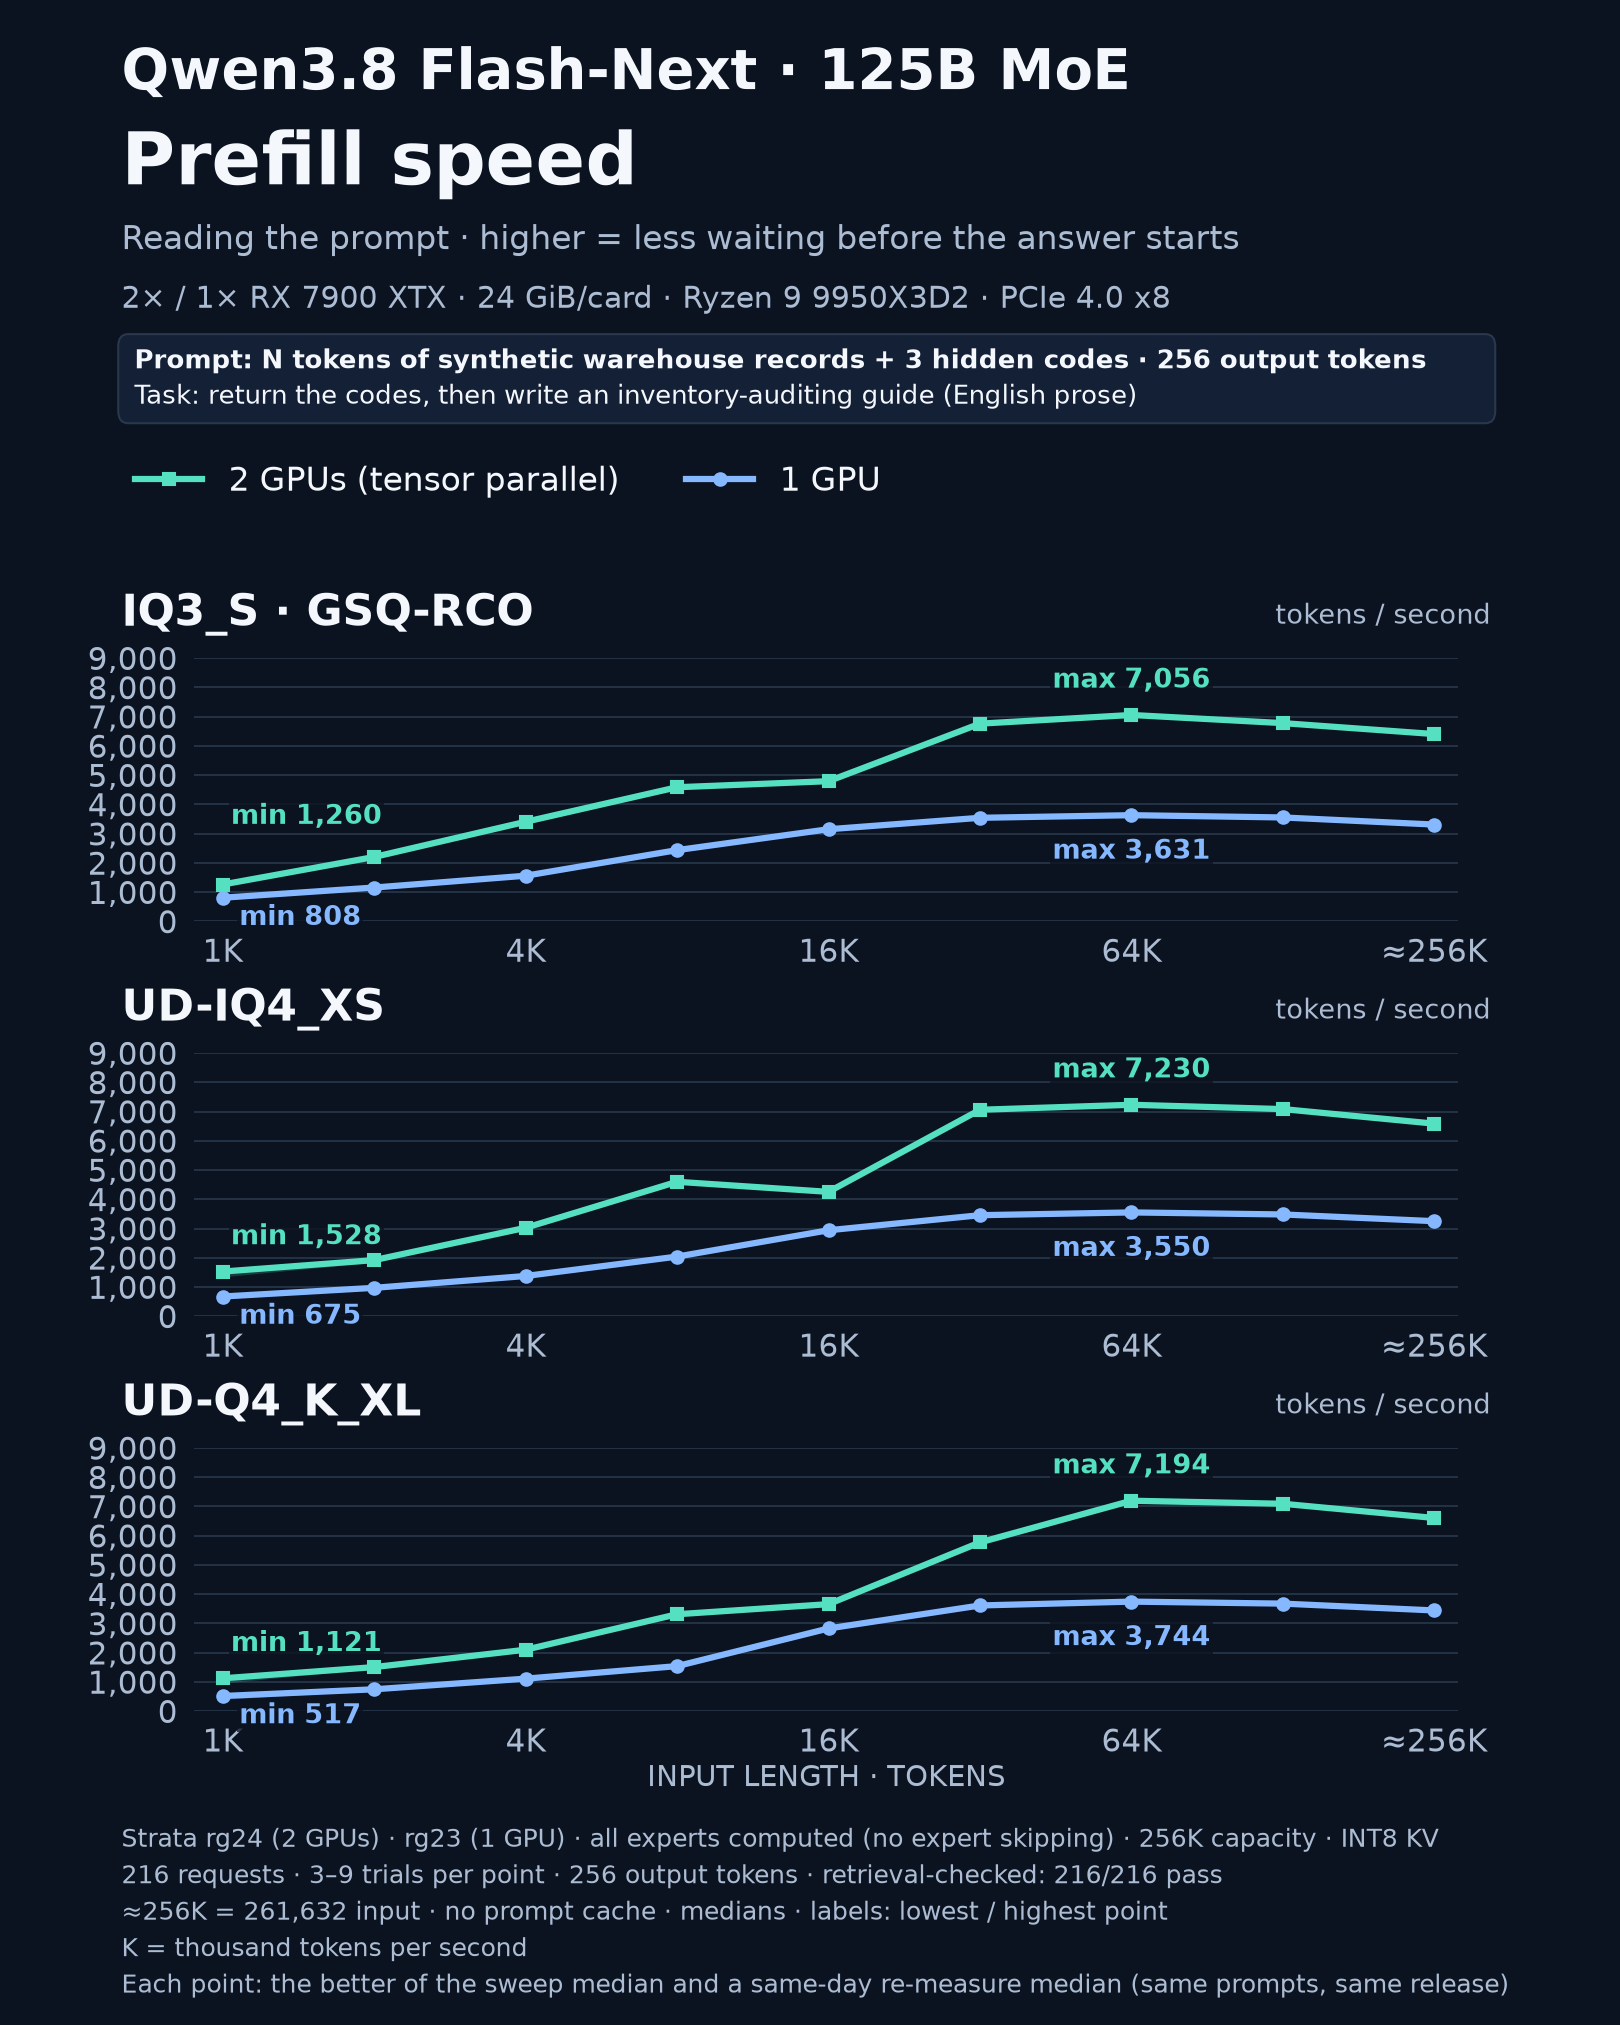
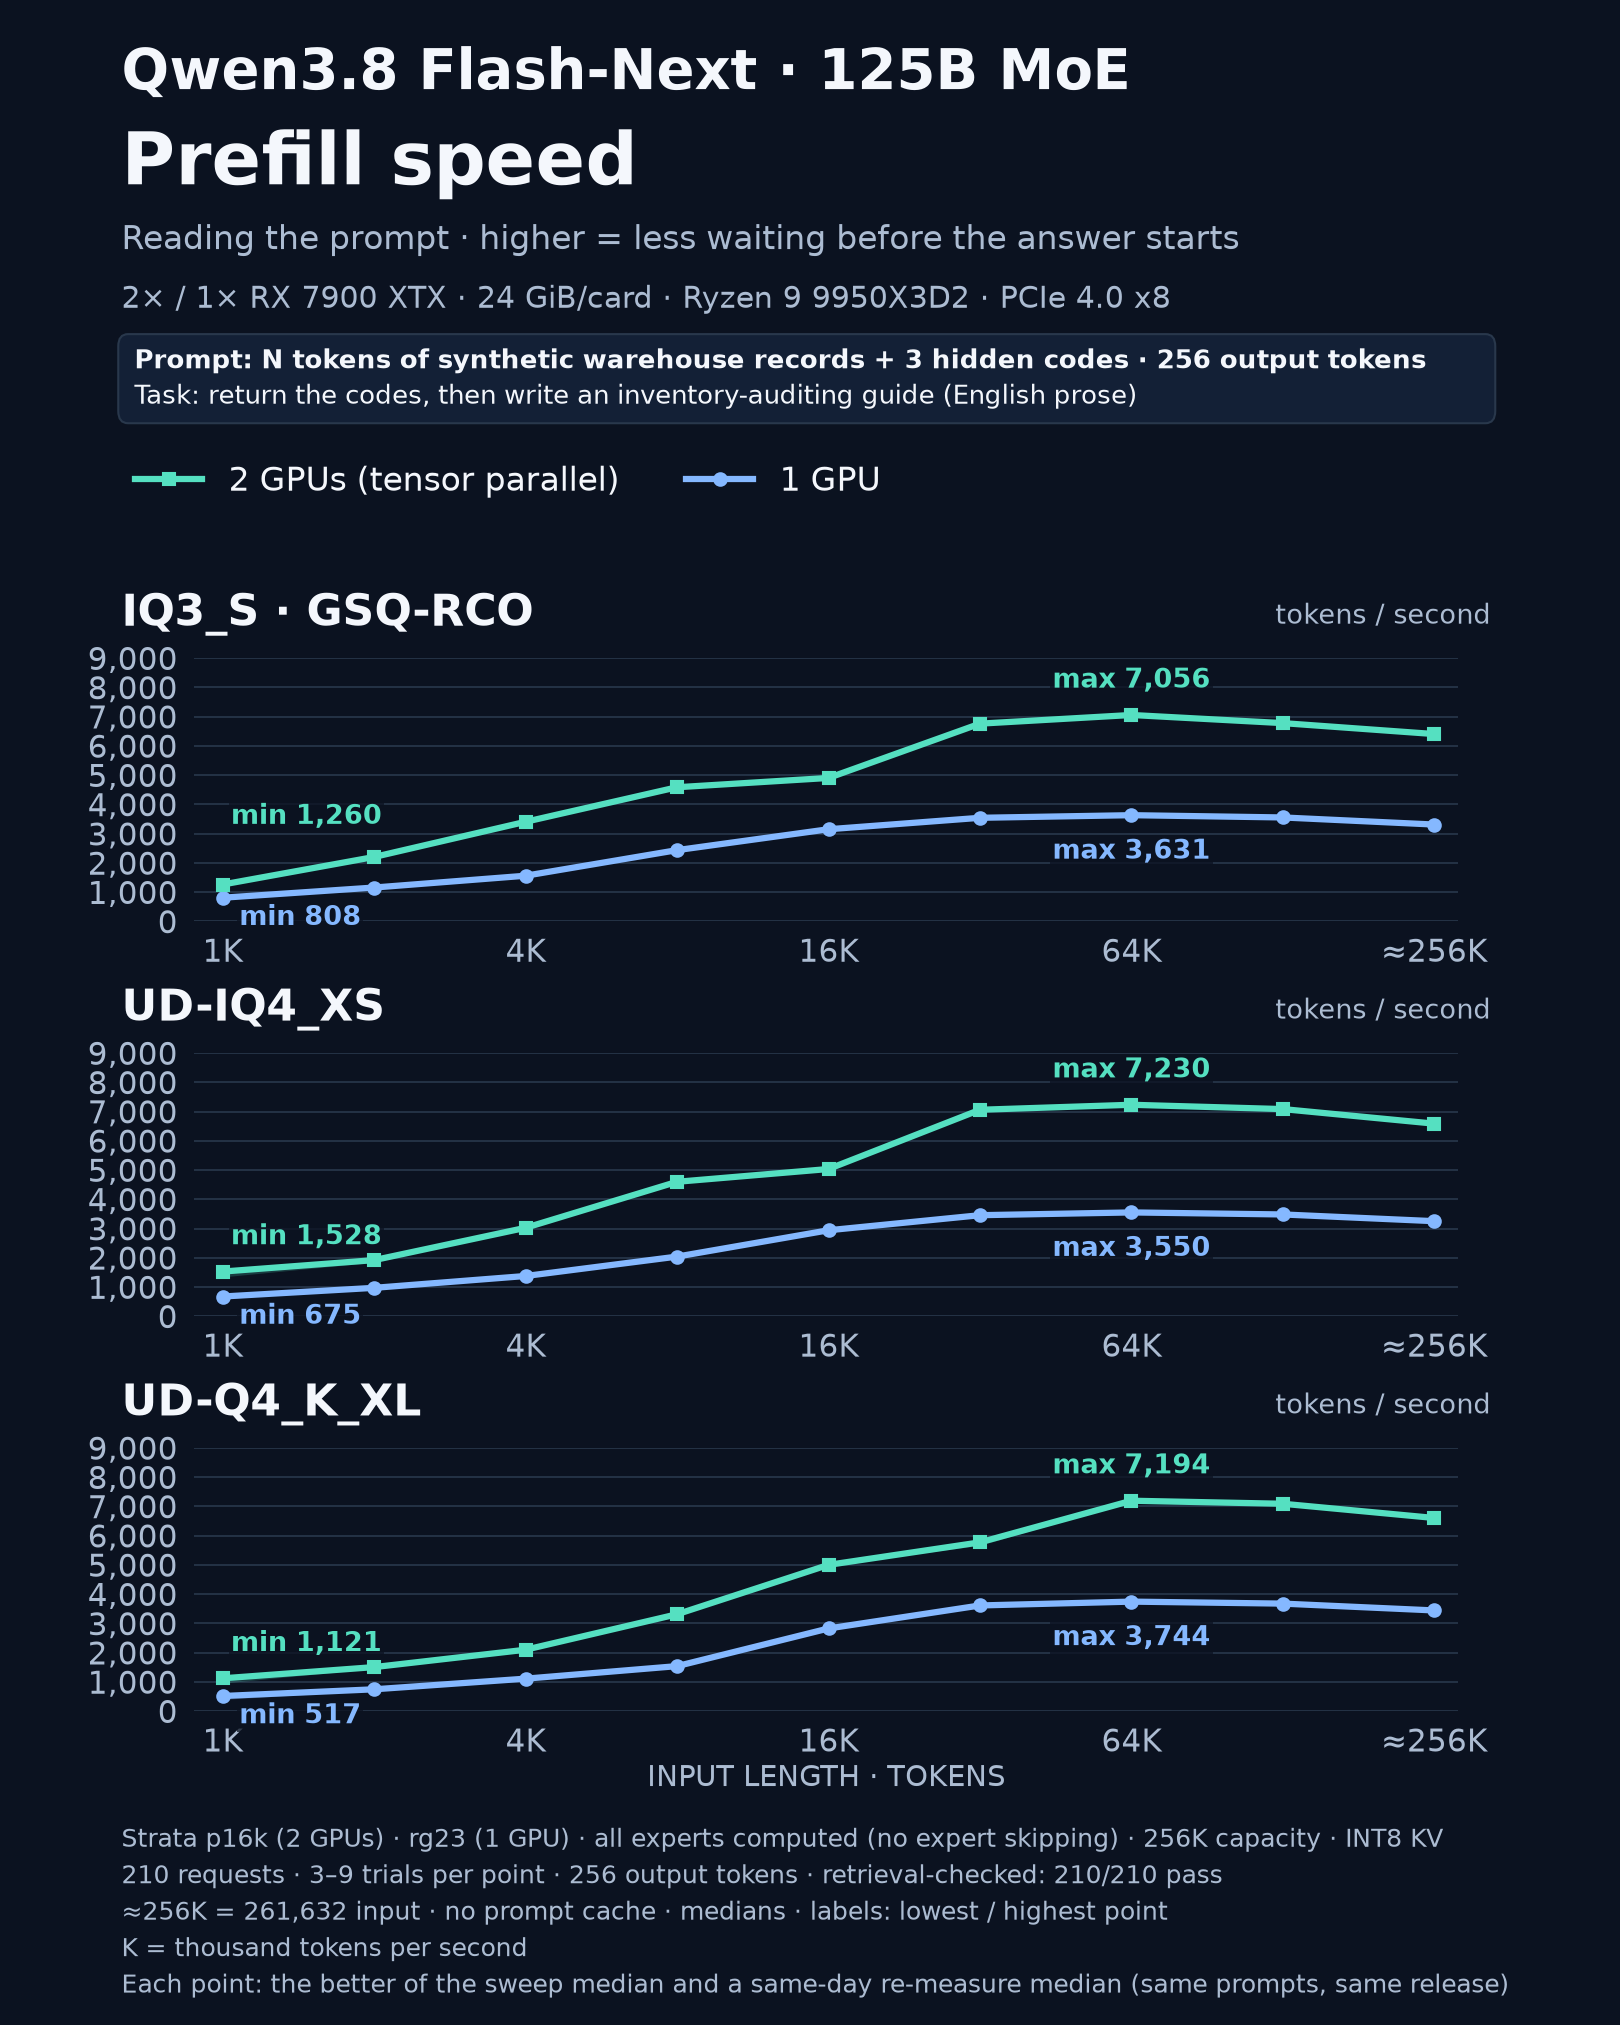
README + charts: production 2026-11-02 evening (p16k, main da76c449): TP prefill up to 18K (IQ3_S / UD-IQ4_XS) and 10K-28K (UD-Q4_K_XL) in one chunk with the TP-only refill head; 16K 2-GPU prefill IQ3_S 4,904, UD-IQ4_XS 5,034, UD-Q4_K_XL 5,000 tok/s (1.56x / 1.71x / 1.77x one GPU); charts from the 1

diff --git a/README.md b/README.md
@@ -28,8 +28,9 @@
 ## RDNA3 / RX 7900 XTX fork
 
 Measured on one or two **RX 7900 XTX** (24 GB each, PCIe 4.0 x8) with a Ryzen 9 9950X3D2 and 128 GB of RAM, release
-`claude-20261102-rg24` on two GPUs and `claude-20261101-rg23` on one (the releases in production on 2026-11-02), with
-every expert computed (no expert skipping). Lines are the median of 3 trials (9 for UD-Q4_K_XL on 2 GPUs; the faint band
+`claude-20261102-p16k` on two GPUs (16K prompts measured on it; the other lengths take the same path as on
+`claude-20261102-rg24`, where they were measured) and `claude-20261101-rg23` on one (production from 2026-11-02), with
+every expert computed (no expert skipping). Lines are the median of 3 trials (9 for UD-Q4_K_XL on 2 GPUs except 16K; the faint band
 is the trial range); every request was checked for exact input length, 256 output tokens and correct retrieval, with no
 prompt cache.
 
@@ -53,7 +54,9 @@ of text.
 
 Fastest measured decode: IQ3_S on 2 GPUs writing code, 189 tok/s (4K context). On 2 GPUs all three quants decode
 tensor parallel (UD-Q4_K_XL since 2026-11-02, before that a pipelined layer split); prompts take one of three paths by
-length (below). UD-IQ4_XS and IQ3_S 2-GPU code cells are rg23 sweeps (rg24 changes only prompts of 3K-12K).
+length (below). UD-IQ4_XS and IQ3_S 2-GPU code cells other than 16K are rg23 sweeps (rg24 / p16k change only prompt reads,
+from 3K tokens). At 16K on 2 GPUs prefill is IQ3_S 4,904, UD-IQ4_XS 5,034 and UD-Q4_K_XL 5,000 tok/s (English; 1.56x /
+1.71x / 1.77x one GPU, was 1.52x / 1.45x / 1.29x before p16k).
 
 ### How the two cards are used
 
@@ -61,7 +64,7 @@ length (below). UD-IQ4_XS and IQ3_S 2-GPU code cells are rg23 sweeps (rg24 chang
 |---|---|---|
 | Decode | tensor parallel (`--tensor-parallel 2`) | tensor parallel (since 2026-11-02; before: layer split + `--pipeline-windows 2`) |
 | Short prompts | one chunk through the layer split, the idle card computing part of the other's experts | same |
-| Mid-length prompts | tensor-parallel prefill, 3,072 (IQ3_S) / 5,120 (UD-IQ4_XS) to 12,288 tokens | one chunk (tensor-parallel prefill is link-bound on Q4), then data parallel from 18,000 tokens |
+| Mid-length prompts | tensor-parallel prefill in one chunk, 3,072 (IQ3_S) / 5,120 (UD-IQ4_XS) to 18,432 tokens, with the refill head | one chunk below 10,240 tokens, then tensor-parallel prefill in one chunk to 28,672 tokens with the refill head |
 | Long prompts | data parallel | data parallel |
 
 **Tensor-parallel decode.** Every layer runs on both cards: attention is split by head, the routed experts are split by
@@ -101,12 +104,20 @@ split by head, attention by query (keys and values exchanged), experts by id. Wi
 `STRATA_TP_PREFILL_MAX=12288` and `STRATA_TP_PREFILL_MIN` 3072 (IQ3_S) / 5120 (UD-IQ4_XS), prefill against the previous
 release: IQ3_S +18.5 % at 4K and +41.6 % at 8K, UD-IQ4_XS +31.8 % at 8K and about +15 % at 12K, decode unchanged.
 
-It stops at 12K because a prompt chunk borrows expert slots from the decode cache. Data parallel gives card 0's slots
-back while card 1 is still reading; tensor parallel keeps both cards busy to the last layer, so both caches refill under
-the first decode windows. Read as one 16K chunk, the decode after it hit its cache about 96 % of the time instead of
-98 % and its windows were 2.7-5.4 % slower; with 8,448-token chunks the prefill gain at 16K was gone. Above 12K
-data parallel stays. On UD-Q4_K_XL tensor-parallel prefill is link-bound (at 16K each card streams ~29 GB of experts
-plus ~10 GB of exchanges through one PCIe 4.0 x8 link) and loses at every length, so it is not used there.
+rg24 stopped it at 12K because a prompt chunk borrows expert slots from the decode cache. Data parallel gives card 0's
+slots back while card 1 is still reading; tensor parallel keeps both cards busy to the last layer, so both caches refill
+under the first decode windows: read as one 16K chunk, the decode after it hit its cache about 96 % of the time instead
+of 98 % and its windows were 2.7-5.4 % slower. **The refill head (release `claude-20261102-p16k`):** after a
+tensor-parallel read of at least 8,449 tokens each card waits, before the first token, for every borrowed slot but its
+coldest 900 (IQ3_S) / 800 (UD-IQ4_XS) / 1,400 (UD-Q4_K_XL) (`STRATA_REFILL_HEAD_TP_KEEP`, `STRATA_REFILL_HEAD_TP_MIN`),
+about 0.2-0.35 s, so the decode starts with no more experts missing than after a data-parallel read. The refill goes
+hottest first (an eighth of the borrowed slots holds ~60 % of the prompt's expert rows), and one big chunk saves more
+than the wait costs. Tensor-parallel prefill now reads one chunk up to 18,432 tokens on IQ3_S / UD-IQ4_XS and from 10,240
+to 28,672 on UD-Q4_K_XL. Against rg24 in interleaved pairs: IQ3_S +7.5 % at 12K and +2.9 % at 16K, UD-IQ4_XS +26 % / +17.5 %,
+UD-Q4_K_XL +19 / +37 / +31 / +14 % at 12K / 16K / 20K / 24K, decode windows equal or faster, 8K unchanged.
+UD-Q4_K_XL was excluded before because on its layer split each card held only its own layers' experts and the read was
+link-bound; on the tensor-parallel layout each card holds part of every layer, the streamed experts split evenly over
+the two links, and the 16K read is 43 % faster even without the head.
 
 **Against an RTX 4090** (IQ3_S, the exact requests of the public
 [nvidia-4090-flash-next-inference](https://github.com/AnnoyingTechnology/nvidia-4090-flash-next-inference) run of
@@ -125,7 +136,7 @@ plus ~10 GB of exchanges through one PCIe 4.0 x8 link) and loses at every length
   [xyzzing/Strata](https://github.com/xyzzing/Strata)); the chunked GDN recurrence on FP16 matrix cores; FP16 pair
   expert kernels (empty-column skip, 3 blocks a WGP, FP16 IQ codebooks); prompt hyper-connection kernels (upmix at 512
   threads, vectorised write+norm); K-quant MMQ; a dual-GPU data-parallel prompt path (`STRATA_DP_PREFILL=1`, chunk
-  8448 on IQ3_S); tensor-parallel prefill on IQ3_S / UD-IQ4_XS for 3K-12K prompts (`STRATA_TP_PREFILL=1`); a routed CPU+GPU expert walk for short prompts on the Q4 layer split; LDS-staged attention.
+  8448 on IQ3_S); tensor-parallel prefill on IQ3_S / UD-IQ4_XS for 3K-18K and UD-Q4_K_XL for 10K-28K prompts (`STRATA_TP_PREFILL=1`) with a tensor-parallel-only refill head (`STRATA_REFILL_HEAD_TP_KEEP`); a routed CPU+GPU expert walk for short prompts on the Q4 layer split; LDS-staged attention.
 - Loading: on Linux the expert arena is read with O_DIRECT when the page cache could not keep it (a 72 GB Q4 arena
   loads at ~1.9 instead of ~1.0 GiB/s).
 - CPU: IQ AVX-512 init stays safe on AVX2-only hosts (PR #1).
